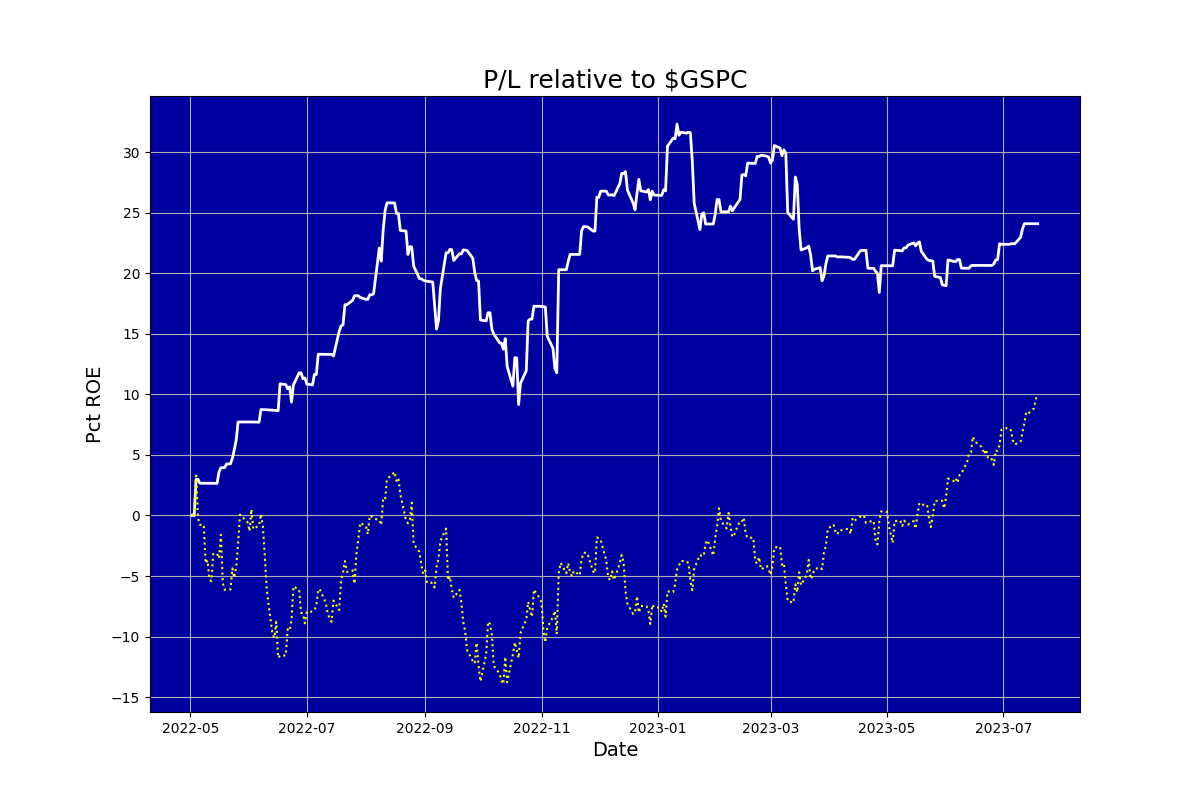
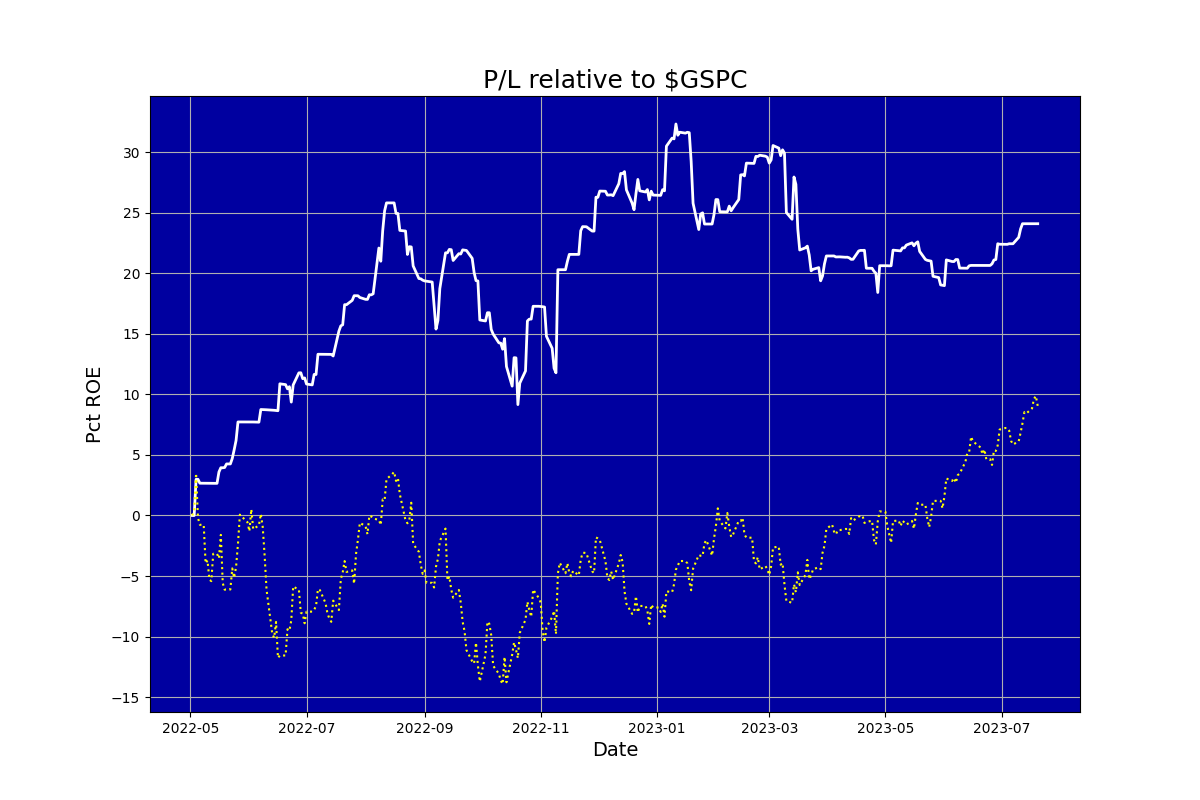
Updated

diff --git a/ig_report.html b/ig_report.html
@@ -1,1 +1,1 @@
-<html><body><center><h1>Auriel (never knowingly overbought)</h1></center><table cols=2><tr><td><img src=ig_pl.png></td><td><table cols=2><tr><td colspan=2><b><br>Snapshot</b></td></tr><tr><td>Last updated:&nbsp;&nbsp;&nbsp;</td><td>2023-07-19 15:53</td></tr><tr><td>Margin:&nbsp;&nbsp;&nbsp;</td><td>0.00</td></tr><tr><td>Cushion:&nbsp;&nbsp;&nbsp;</td><td>-33733.85</td></tr><tr><td>Last closed trade:&nbsp;&nbsp;&nbsp;</td><td>2023-07-12</td></tr><tr><td colspan=2><b><br>Positions</b></td></tr><tr><td>Mean days to new high:&nbsp;&nbsp;&nbsp;</td><td>13.96</td></tr><tr><td colspan=2><b><br>Trades</b></td></tr><tr><td>Traded days:&nbsp;&nbsp;&nbsp;</td><td>320</td></tr><tr><td>Profitable days pct:&nbsp;&nbsp;&nbsp;</td><td>37.50</td></tr><tr><td>Days beat S&P pct:&nbsp;&nbsp;&nbsp;</td><td>54.10</td></tr><tr><td>Profitable months pct:&nbsp;&nbsp;&nbsp;</td><td>66.67</td></tr><tr><td colspan=2><b><br>Performance</b></td></tr><tr><td>Pct median monthly ROE:&nbsp;&nbsp;&nbsp;</td><td>1.43</td></tr><tr><td>Pct annualised ROE:&nbsp;&nbsp;&nbsp;</td><td>18.82</td></tr><tr><td colspan=2><b><br>Risk</b></td></tr><tr><td>Volatility pct:&nbsp;&nbsp;&nbsp;</td><td>17.83</td></tr><tr><td>Benchmark volatility pct:&nbsp;&nbsp;&nbsp;</td><td>20.86</td></tr><tr><td>Sharpe ratio (RFR 5.0%):&nbsp;&nbsp;&nbsp;</td><td>0.87</td></tr><tr><td>Sortino ratio (RFR 5.0%):&nbsp;&nbsp;&nbsp;</td><td>1.18</td></tr><tr><td>Calmar ratio:&nbsp;&nbsp;&nbsp;</td><td>1.13</td></tr><tr><td>Worst drawdown pct:&nbsp;&nbsp;&nbsp;</td><td>-0.17</td></tr><tr><td>Recovery days from worst drawdown:&nbsp;&nbsp;&nbsp;</td><td>29.00</td></tr><tr><td>Beat benchmark +ve periods pct:&nbsp;&nbsp;&nbsp;</td><td>42.44</td></tr><tr><td>Beat benchmark -ve periods pct:&nbsp;&nbsp;&nbsp;</td><td>87.93</td></tr><tr><td>Correlation with benchmark:&nbsp;&nbsp;&nbsp;</td><td>0.35</td></tr></table></td></tr></table></body></html>
+<html><body><center><h1>Auriel (never knowingly overbought)</h1></center><table cols=2><tr><td><img src=ig_pl.png></td><td><table cols=2><tr><td colspan=2><b><br>Snapshot</b></td></tr><tr><td>Last updated:&nbsp;&nbsp;&nbsp;</td><td>2023-07-20 15:53</td></tr><tr><td>Margin:&nbsp;&nbsp;&nbsp;</td><td>0.00</td></tr><tr><td>Cushion:&nbsp;&nbsp;&nbsp;</td><td>-33733.85</td></tr><tr><td>Last closed trade:&nbsp;&nbsp;&nbsp;</td><td>2023-07-12</td></tr><tr><td colspan=2><b><br>Positions</b></td></tr><tr><td>Mean days to new high:&nbsp;&nbsp;&nbsp;</td><td>13.96</td></tr><tr><td colspan=2><b><br>Trades</b></td></tr><tr><td>Traded days:&nbsp;&nbsp;&nbsp;</td><td>321</td></tr><tr><td>Profitable days pct:&nbsp;&nbsp;&nbsp;</td><td>37.38</td></tr><tr><td>Days beat S&P pct:&nbsp;&nbsp;&nbsp;</td><td>54.58</td></tr><tr><td>Profitable months pct:&nbsp;&nbsp;&nbsp;</td><td>66.67</td></tr><tr><td colspan=2><b><br>Performance</b></td></tr><tr><td>Pct median monthly ROE:&nbsp;&nbsp;&nbsp;</td><td>1.43</td></tr><tr><td>Pct annualised ROE:&nbsp;&nbsp;&nbsp;</td><td>18.77</td></tr><tr><td colspan=2><b><br>Risk</b></td></tr><tr><td>Volatility pct:&nbsp;&nbsp;&nbsp;</td><td>17.80</td></tr><tr><td>Benchmark volatility pct:&nbsp;&nbsp;&nbsp;</td><td>20.84</td></tr><tr><td>Sharpe ratio (RFR 5.0%):&nbsp;&nbsp;&nbsp;</td><td>0.87</td></tr><tr><td>Sortino ratio (RFR 5.0%):&nbsp;&nbsp;&nbsp;</td><td>1.18</td></tr><tr><td>Calmar ratio:&nbsp;&nbsp;&nbsp;</td><td>1.13</td></tr><tr><td>Worst drawdown pct:&nbsp;&nbsp;&nbsp;</td><td>-0.17</td></tr><tr><td>Recovery days from worst drawdown:&nbsp;&nbsp;&nbsp;</td><td>29.00</td></tr><tr><td>Beat benchmark +ve periods pct:&nbsp;&nbsp;&nbsp;</td><td>42.16</td></tr><tr><td>Beat benchmark -ve periods pct:&nbsp;&nbsp;&nbsp;</td><td>87.93</td></tr><tr><td>Correlation with benchmark:&nbsp;&nbsp;&nbsp;</td><td>0.35</td></tr></table></td></tr></table></body></html>
